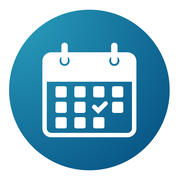
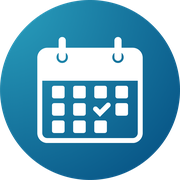
Icônes sans fond blanc

diff --git a/index.html b/index.html
@@ -5,8 +5,8 @@
 <title>Mes Absences ESST</title>
 <meta name="theme-color" content="#7b1e2e">
 <link rel="manifest" href="manifest.json">
-<link rel="icon" href="icon.png">
-<link rel="apple-touch-icon" href="icon.png">
+<link rel="icon" href="icons/icon-192.png">
+<link rel="apple-touch-icon" href="icons/icon-180.png">
 <meta name="mobile-web-app-capable" content="yes">
 <meta name="apple-mobile-web-app-capable" content="yes">
 <meta name="apple-mobile-web-app-title" content="Absences">
